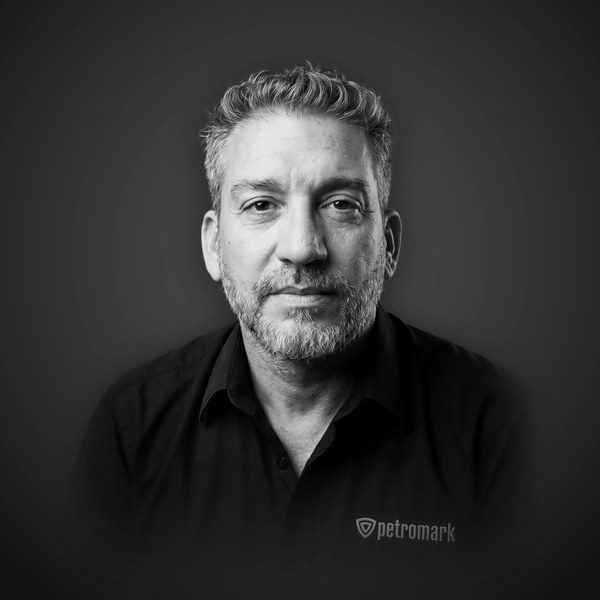
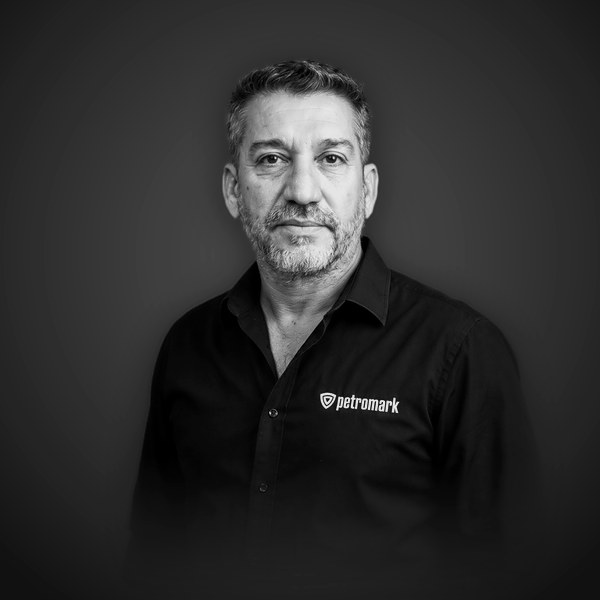
Actualiza foto de Rolando Parra

Changed region(s): [[0.15, 0.09, 0.87, 0.81], [0.6, 0.84, 0.78, 0.9]]

diff --git a/fotos.py b/fotos.py
@@ -26,7 +26,7 @@ FADE = 0.24                       # alto del desvanecido del torso, fracción de
 FADE_POR_SLUG = {}
 ZOOM_POR_SLUG = {                 # ajustes puntuales aprobados por el usuario (más alto = más lejos)
     "ecanullo": 5.0,
-    "rparra": 3.4,
+    "rparra": 5.0,
     "lamenabar": 3.8,
 }
 FONDO_CENTRO = (0x4a, 0x4a, 0x4d)
